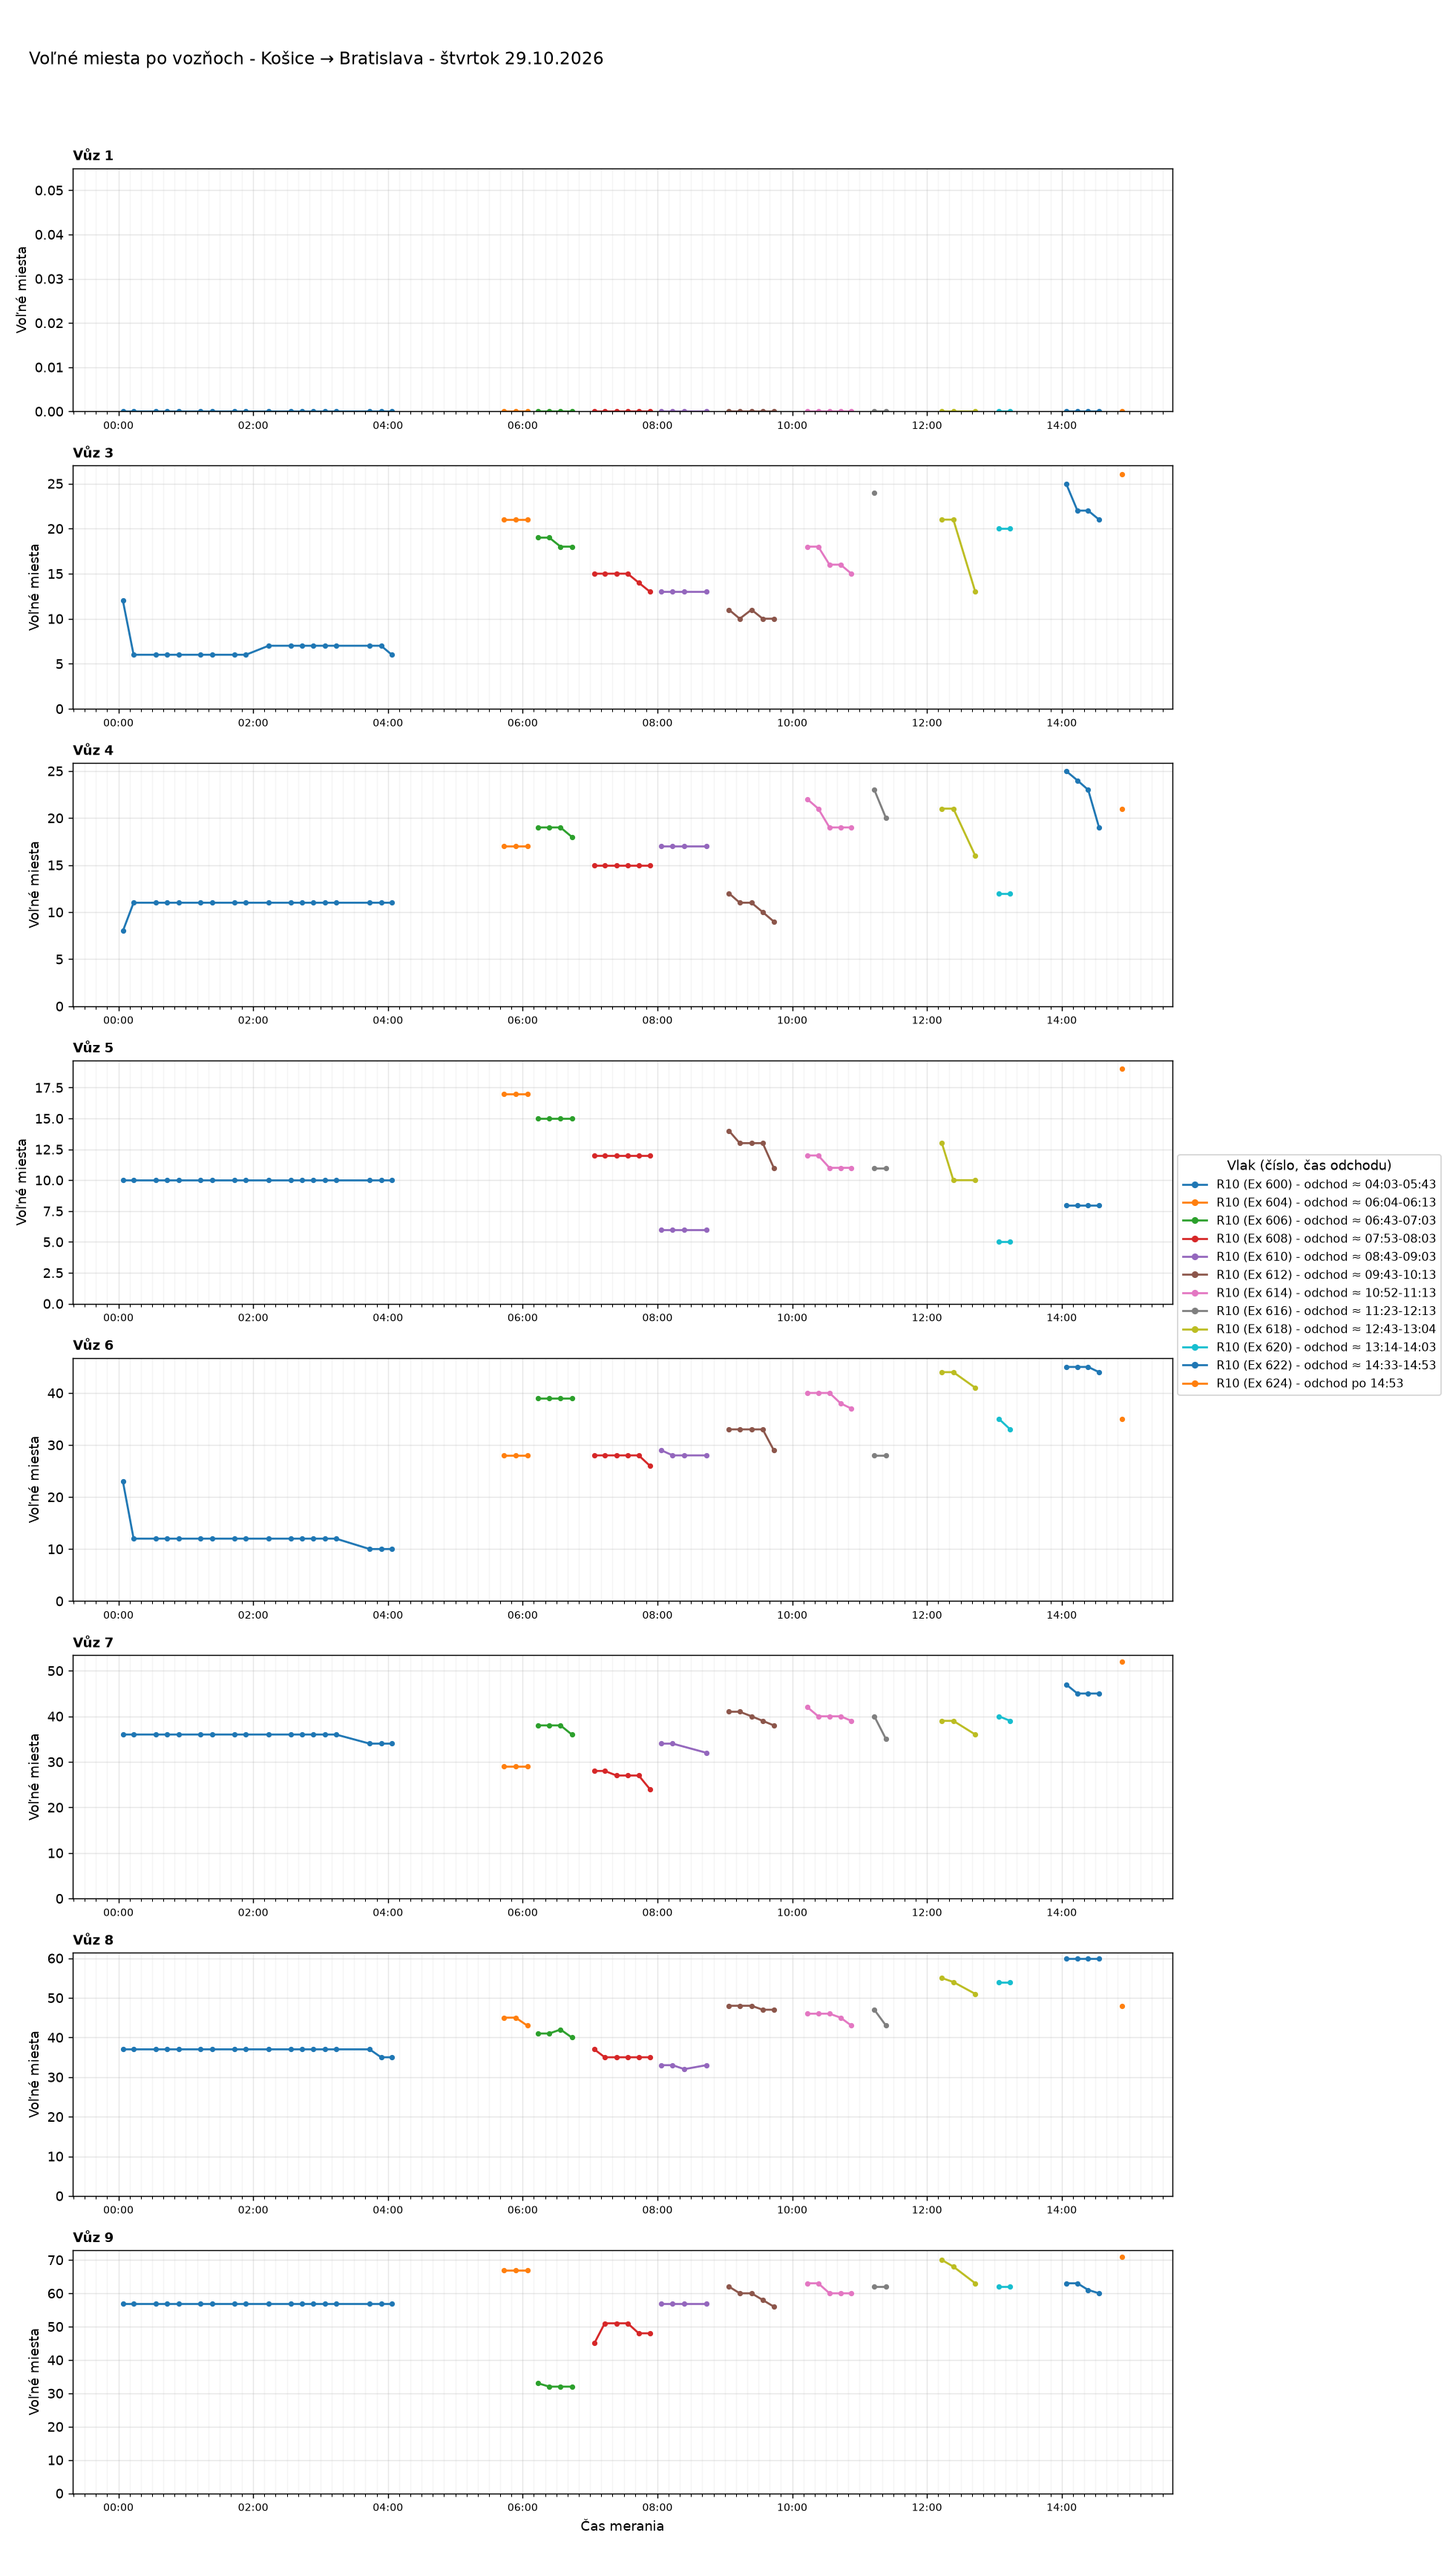
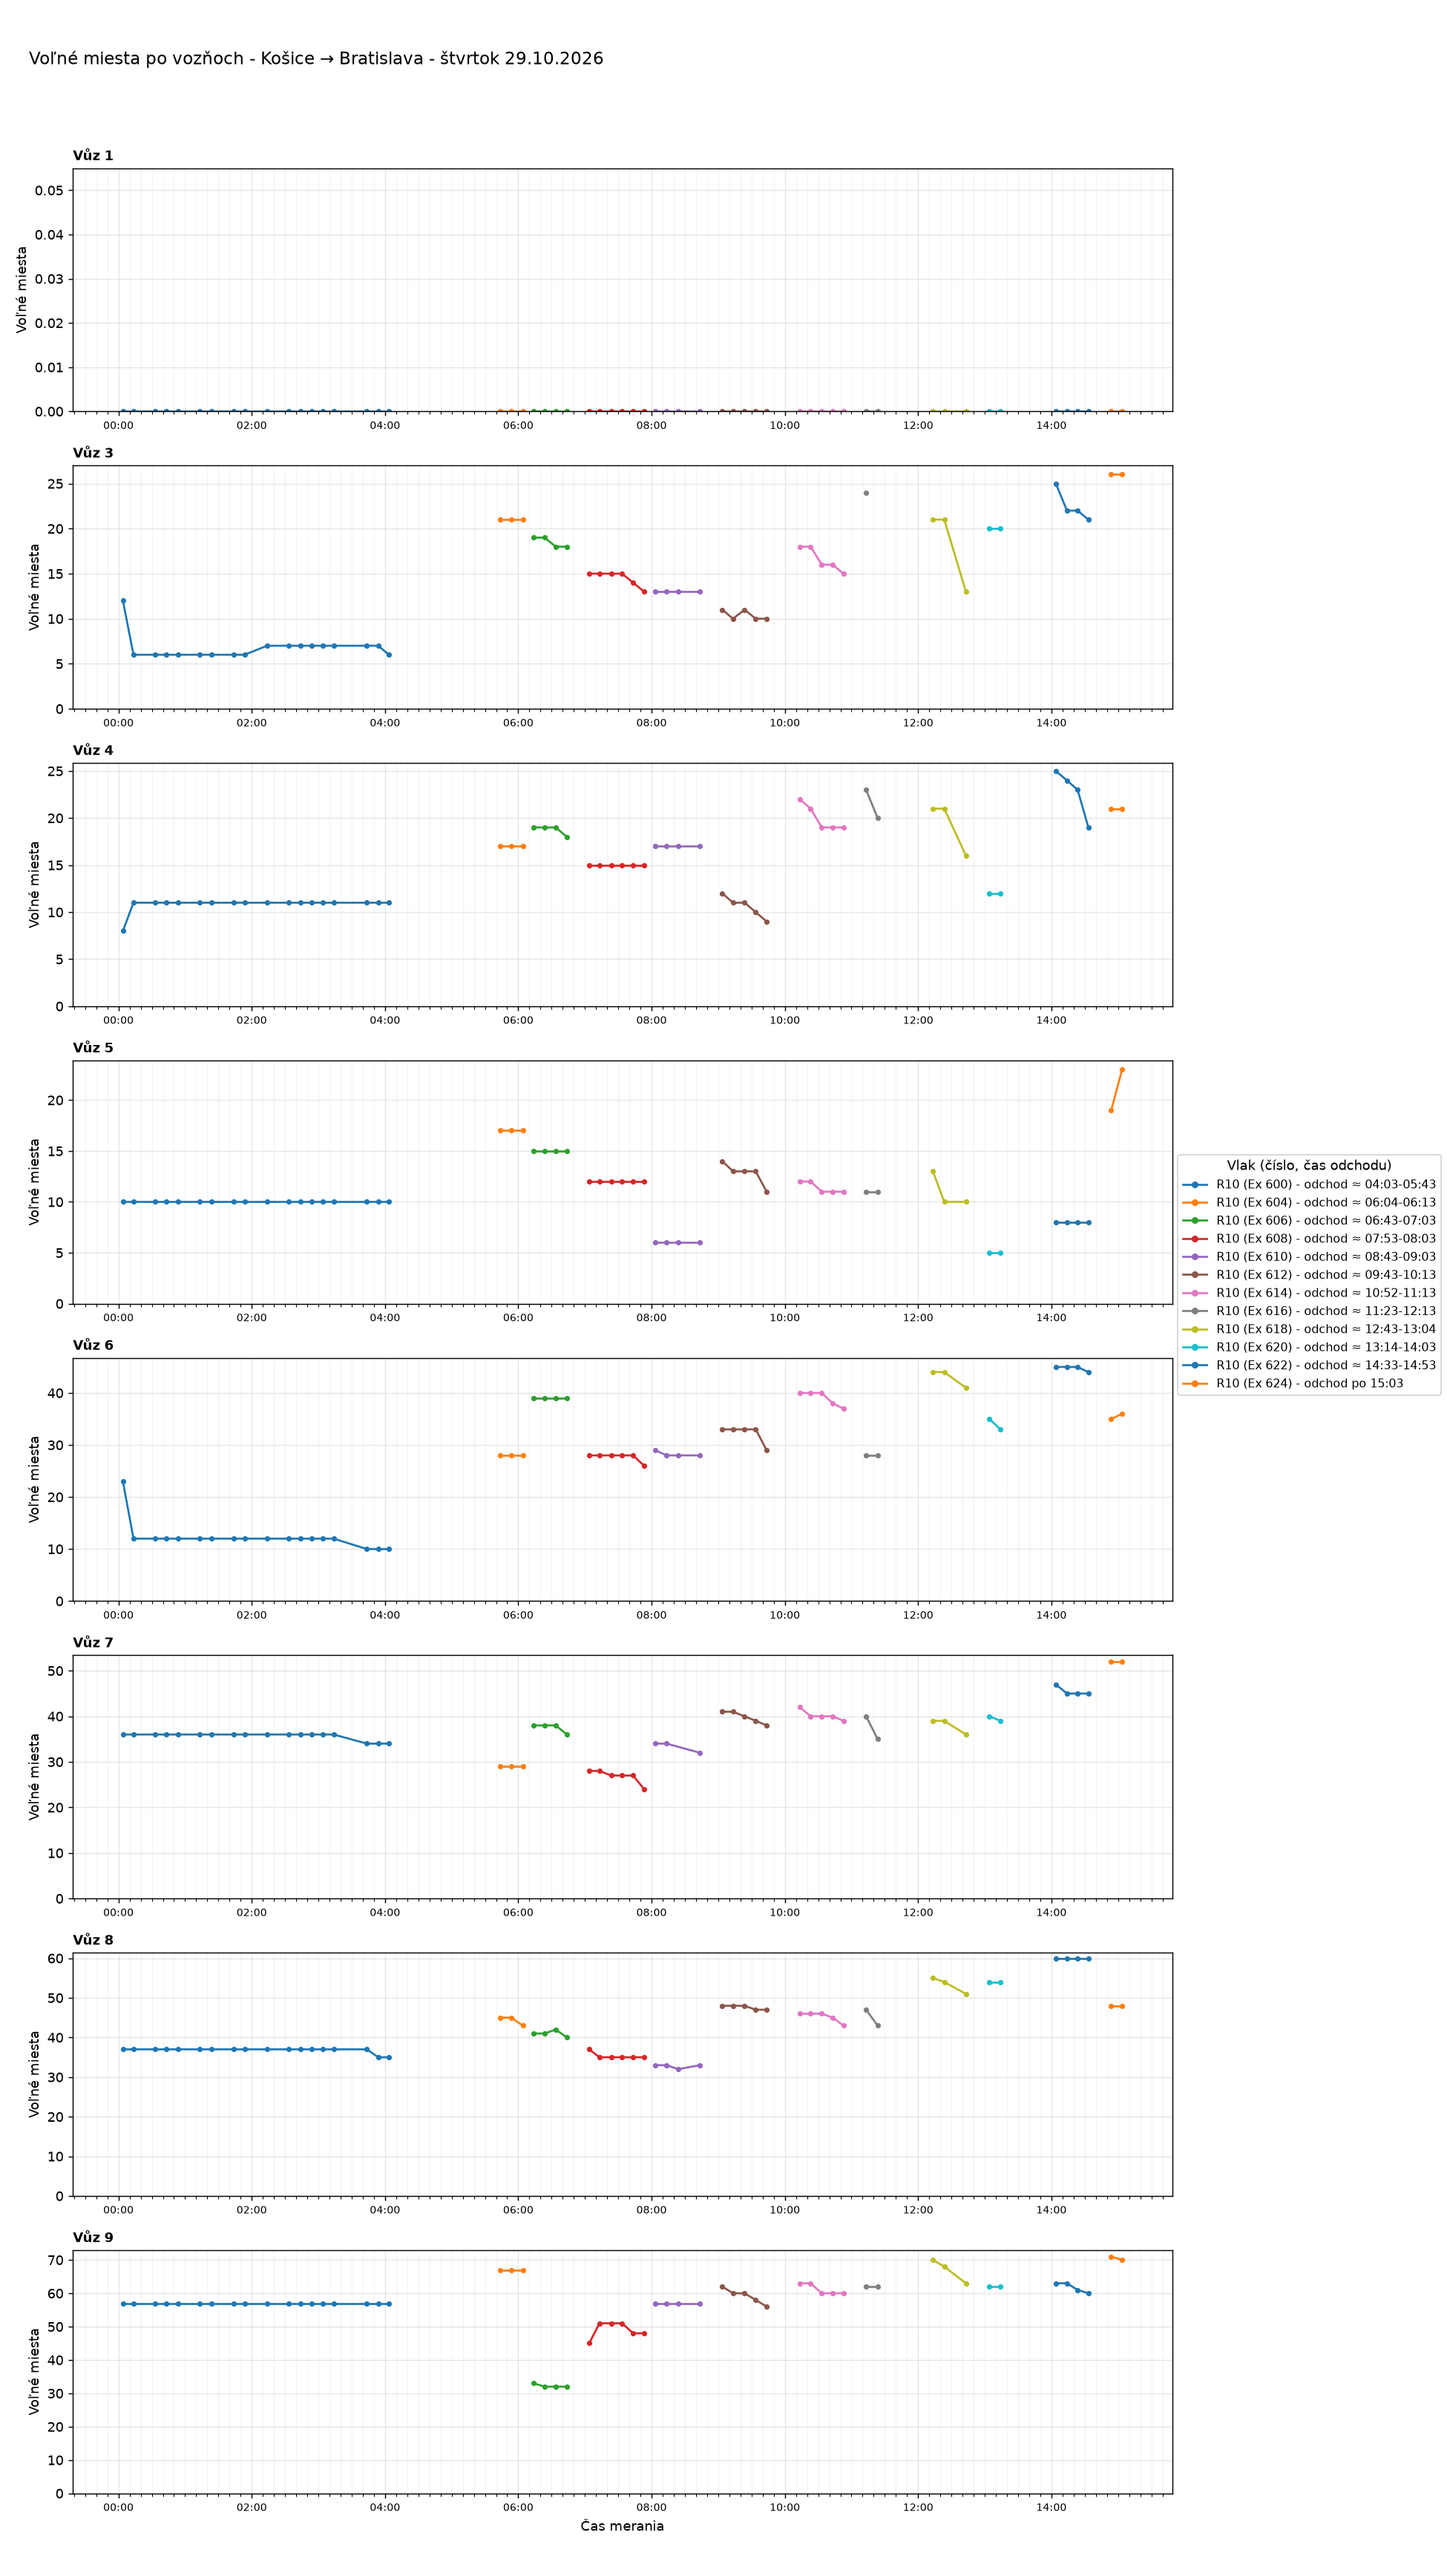
Aktualizácia grafov 2026-10-29 15:13

Changed region(s): [[0.6462, 0.3114, 0.6769, 0.3425], [0.0, 0.436, 0.0308, 0.4671]]

diff --git a/index.html b/index.html
@@ -37,7 +37,7 @@ details.trasa>summary{cursor:pointer;font-weight:600;font-size:1.1rem;padding:8p
 <body>
 <main>
 <h1>Voľné miesta vo vlakoch</h1>
-<p class="muted">Posledné meranie: 29.10.2026 14:53 ·
+<p class="muted">Posledné meranie: 29.10.2026 15:03 ·
 <a href="data/obsadenost_data.csv">stiahnuť dáta (CSV)</a></p>
 <nav class="nav"><a href="#suhrn">Súhrn</a><a href="#statistiky">Štatistiky</a><a href="#historia">História grafov</a></nav>
 
@@ -49,7 +49,7 @@ details.trasa>summary{cursor:pointer;font-weight:600;font-size:1.1rem;padding:8p
 <tr><td><a href="#dBA-VR-2026-10-29">štvrtok 29.10.2026</a></td><td>Bratislava → Vrútky</td><td>67</td><td>9</td><td>00:01-14:11</td></tr>
 <tr><td><a href="#dVR-BA-2026-10-29">štvrtok 29.10.2026</a></td><td>Vrútky → Bratislava</td><td>56</td><td>11</td><td>02:42-14:52</td></tr>
 <tr><td><a href="#dBA-KE-2026-10-29">štvrtok 29.10.2026</a></td><td>Bratislava → Košice</td><td>60</td><td>10</td><td>00:03-14:13</td></tr>
-<tr><td><a href="#dKE-BA-2026-10-29">štvrtok 29.10.2026</a></td><td>Košice → Bratislava</td><td>57</td><td>12</td><td>00:04-14:53</td></tr>
+<tr><td><a href="#dKE-BA-2026-10-29">štvrtok 29.10.2026</a></td><td>Košice → Bratislava</td><td>58</td><td>12</td><td>00:04-15:03</td></tr>
 <tr><td><a href="#dBA-VR-2026-10-28">streda 28.10.2026</a></td><td>Bratislava → Vrútky</td><td>148</td><td>16</td><td>00:03-23:51</td></tr>
 <tr><td><a href="#dVR-BA-2026-10-28">streda 28.10.2026</a></td><td>Vrútky → Bratislava</td><td>65</td><td>13</td><td>08:02-20:22</td></tr>
 <tr><td><a href="#dBA-KE-2026-10-28">streda 28.10.2026</a></td><td>Bratislava → Košice</td><td>66</td><td>12</td><td>07:46-23:52</td></tr>
